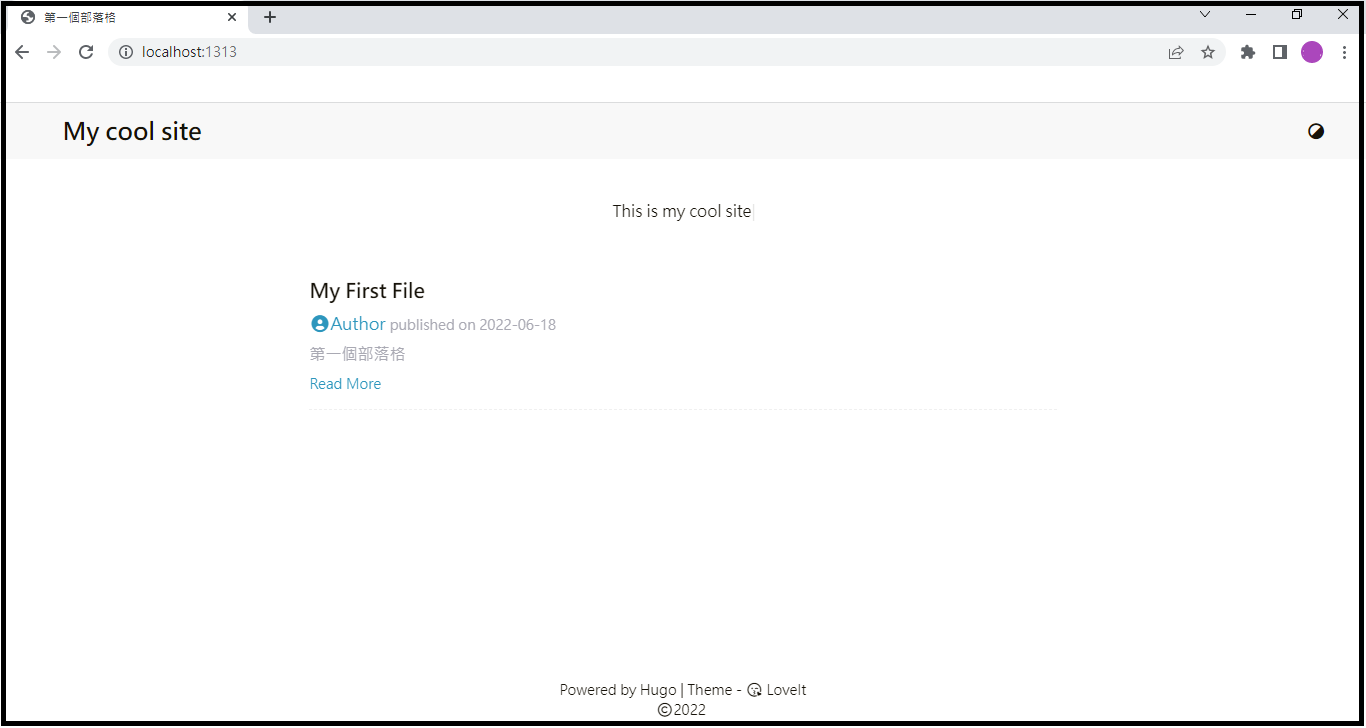
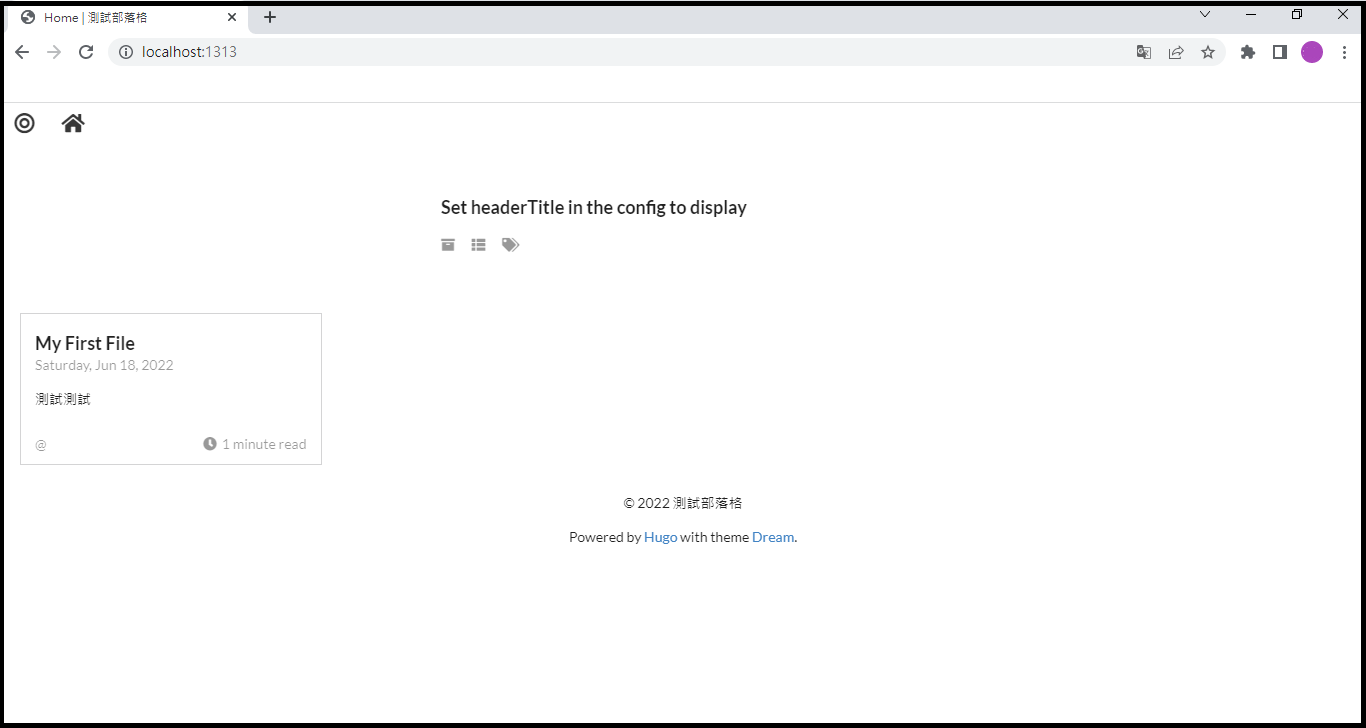
:memo: 更新New Hugo文件

diff --git a/New hugo.md b/New hugo.md
@@ -5,6 +5,7 @@ author: "Hugo"
 summary: "說明如何使用Hugo製作部落格網站"
 categories: ["Deployment Site"]
 tags: ["Hugo","Git"]
+
 ---
 
 什麼是Hugo?是一個用 Go 語言編寫的靜態站點生成器，使用Hugo與Git來建立個人部落格。
@@ -20,16 +21,17 @@ tags: ["Hugo","Git"]
 ### 2.用cmd在想要的路徑，建立網址的資料夾之後進入，例如:hugo_blog
 
 ```
-hugo new site hugo_blog
-cd hugo_blog
+hugo new site hugo_new_blog
+cd hugo_new_blog
+git init
 ```
 
-### 3.新增[部落格主題](<https://themes.gohugo.io/>)，例如:[LoveIt]([GitHub - dillonzq/LoveIt: ❤A clean, elegant but advanced blog theme for Hugo 一个简洁、优雅且高效的 Hugo 主题](https://github.com/dillonzq/LoveIt))為例
+### 3.新增[部落格主題](<https://themes.gohugo.io/>)，例如:[Dream](https://github.com/g1eny0ung/hugo-theme-dream)為例
 
-使用Git Clone，下載academic專案在themes/loveit資料夾底下
+使用Git Submodule，新增Dream主題的連結資料夾
 
 ```
-git clone https://github.com/dillonzq/LoveIt.git themes/loveit
+git submodule add -f https://github.com/g1eny0ung/hugo-theme-dream.git themes/dream
 ```
 
 ### 4.建立新文章，例如:檔名為my-first-file
@@ -53,13 +55,12 @@ draft: false
 
 ### 5.編輯config.toml，baseURL改成你的github帳號名稱
 
-例如：abc123
+例如：eric88142
 
 ```
-baseURL = "https://abc123.github.io/" #改成你github帳號名稱
-languageCode = "zh-tw"
-title = "我的第一個部落格" #標題可自行更改
-theme = "loveit" #主題名稱
+baseURL = "https://eric88142.github.io/" #改成你github帳號名稱
+title = "測試部落格" #標題可自行更改
+theme = "dream" #主題名稱
 ```
 
 ### 6.本機測試
@@ -76,43 +77,39 @@ hugo server -D
 
 ### 1.在GitHub建立兩個repositories
 
-例如：abc123
+例如：eric88142
 
-在Github建立`hugo_blog`和`abc123.github.io`(使用自己的GitHub帳號)
+在Github建立`hugo_new_blog`和`eric88142.github.io`(使用自己的GitHub帳號)
 
-### 2.建立public資料夾，並連結GitHub 上自己帳號的repositories
-
-```
-git submodule add -f https://github.com/abc123/abc123.github.io.git public
-```
-
-這時public資料夾是新增連結而不是專案
-
-### 3.執行Hugo指令
+### 2.執行Hugo指令
 
 ```
 hugo
 ```
 
-執行`hugo`指令，自動產生編譯檔案新增public資料夾
+執行`hugo`指令，自動產生編譯檔案新增public資料夾，會產生.gitmodules檔案
 
-### 4.將 public 資料夾上版到Github上自己帳號的repositories
+### 3.在public資料夾，將自己GitHub 帳號的repositories做連結
 
 ```
 cd public
-git init
-git remote add origin https://github.com/abc123/abc123.github.io
+git submodule add -f https://github.com/eric88142/eric88142.github.io.git
+```
+
+### 4.上版到Github上自己帳號的repositories
+
+```
+git remote add origin https://github.com/eric88142/eric88142.github.io
 git add .
 git commit -m "my-first-hugo"
 git push origin master
 ```
 
-### 5.回到上一層將hugo_blog資料夾連結到GitHub 上的hugo_blog
+### 5.建立GitHub 上的hugo_new_blog專案
 
 ```
 cd ..
-git init
-git remote add origin https://github.com/abc123/hugo_blog.git
+git remote add origin https://github.com/eric88142/hugo_new_blog.git
 ```
 
 ### 6.將hugo_blog資料夾上版
@@ -123,7 +120,7 @@ git commit -m "my-hugo-file"
 git push origin master
 ```
 
-上版後，在瀏覽器輸入自己帳號的網址`http://abc123.github.io`，會看到跟本機看到的部落格是一樣的。
+上版後，在瀏覽器輸入自己帳號的網址`http://eric88142.github.io`，會看到跟本機看到的部落格是一樣的。
 
 ### 參考資料:
 
@@ -133,8 +130,4 @@ git push origin master
 
 <https://themes.gohugo.io/>、
 
-[https://github.com/wowchemy/starter-hugo-academic](https://github.com/wowchemy/starter-hugo-academic)、
-
-[https://medium.com/@chs_wei/%E5%9C%A8-github-%E9%83%A8%E7%BD%B2-hugo-%E9%9D%9C%E6%85%8B%E7%B6%B2%E7%AB%99-9c40682dfe40](https://medium.com/@chs_wei/在-github-部署-hugo-靜態網站-9c40682dfe40)、
-
-https://gohugo.io/hosting-and-deployment/hosting-on-github/、
+[https://medium.com/@chs_wei/%E5%9C%A8-github-%E9%83%A8%E7%BD%B2-hugo-%E9%9D%9C%E6%85%8B%E7%B6%B2%E7%AB%99-9c40682dfe40](https://medium.com/@chs_wei/在-github-部署-hugo-靜態網站-9c40682dfe40)
